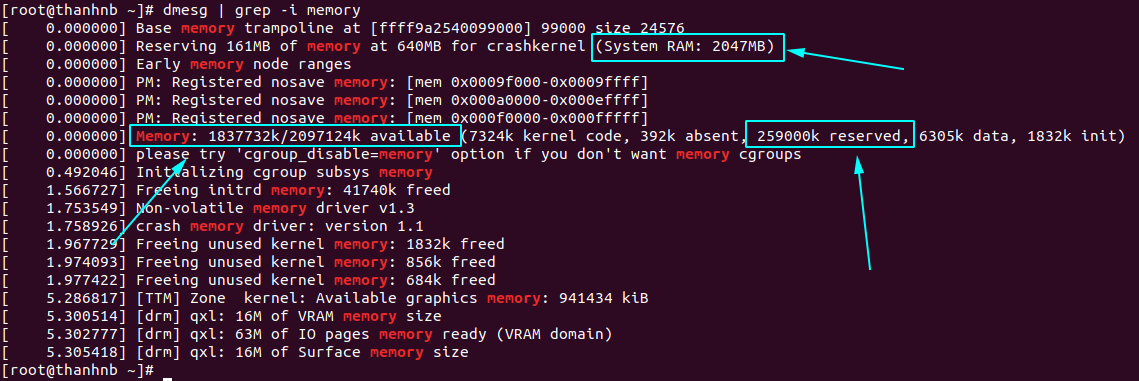
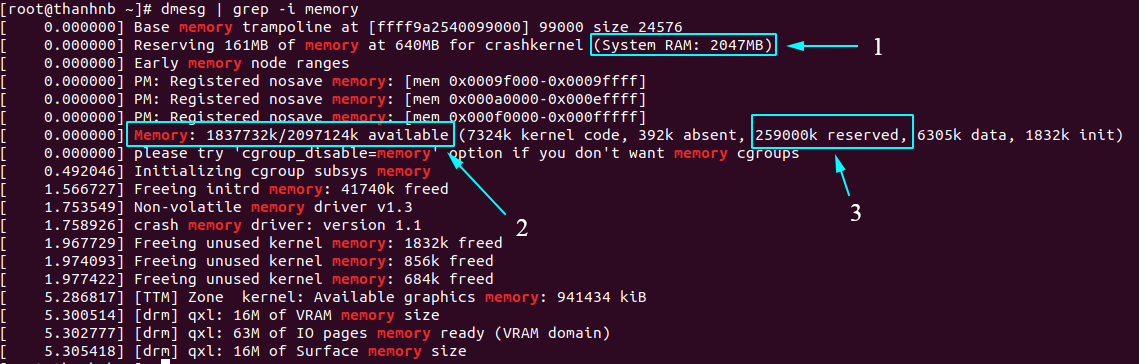
update hinh anh

Changed region(s): [[0.0, 0.0, 1.0, 1.0], [0.7375, 0.1209, 0.7989, 0.1813], [0.4302, 0.544, 0.4609, 0.5742]]

diff --git a/_posts/2019-03-03-kiem-tra-dung-luong-ram.md b/_posts/2019-03-03-kiem-tra-dung-luong-ram.md
@@ -35,13 +35,13 @@ Kết quả
 ![](/images/image-kiem-tra-dung-luong-ram/pic1.png)
 
 Kết quả cho thấy, Cloud VPS của mình có thông số bộ nhớ ram như sau:
-- Tổng dung lượng bộ nhớ bằng 1,8 GB (`total`)
-- Đã sử dụng 78 MB (`used`)
-- Dung lượng rảnh rỗi bằng 1,5 GB (`free`)
-- Dung lượng bộ nhớ sử dụng cho việc lưu đệm bằng 213 MB (`buff/cache`)
+- (1) Tổng dung lượng bộ nhớ bằng 1,8 GB (`total`)
+- (2) Đã sử dụng 80 MB (`used`)
+- (3) Dung lượng rảnh rỗi bằng 1,5 GB (`free`)
+- (4) Dung lượng bộ nhớ sử dụng cho việc lưu đệm bằng 228 MB (`buff/cache`)
 
 Lưu ý:
-- Số ram trống tuy chỉ bằng 1.5 GB (`free`) nhưng thực tế bạn có thể sử dụng nhiều hơn thế. Tổng số bộ nhớ có thể sử dụng sẽ bằng `free` + `buff/cache`. Vậy ở đây, số ram thực sự có thể sử dụng được sẽ bằng 1.713 GB.
+- Số ram trống tuy chỉ bằng 1.5 GB (`free`) nhưng thực tế bạn có thể sử dụng nhiều hơn thế. Tổng số bộ nhớ có thể sử dụng sẽ bằng `free` + `buff/cache`. Vậy ở đây, số ram thực sự có thể sử dụng được sẽ bằng 1.728 GB.
 - Lượng bộ nhớ ram được `buff/cache` thường được sử dụng để cải thiện hiệu năng đọc ghi ổ đĩa. Vì bộ ram sẽ có tốc độ truy vấn, đọc ghi cao hơn rất nhiều so với tốc độ truy vấn, đọc ghi ổ đĩa nên hệ điều hành sử dụng lượng ram còn trống để cài thiện hiệu năng.
 
 Vậy mình đã hướng dẫn các kiểm tra thông số bộ nhớ đơn giản. Tiếp theo mình sẽ hướng dẫn phương pháp nâng cao.
@@ -100,13 +100,13 @@ Kết quả
 
 ![](/images/image-kiem-tra-dung-luong-ram/pic8.png)
 
-## Giải thích lý do tại sao dung lượng bộ nhớ hiện có lại nhỏ hơn dung lượng bộ vật lý
+## Giải thích lý do tại sao dung lượng bộ nhớ hiện có lại nhỏ hơn dung lượng bộ nhớ vật lý
 
 ![](/images/image-kiem-tra-dung-luong-ram/pic9.png)
 
-Đến đây mình nghĩ một số bạn sẽ thắc mắc tại sao mình đăng ký gói Cloud VPS gói B với 2 GB RAM bộ nhớ nhưng khi kiểm tra thì hệ điều hành chỉ nhận 1.8 GB. Vậy có phải hệ điều hành đã nhận thiếu ram hoặc nhà cung cấp đã cung cấp thiếu bộ nhớ cho Cloud VPS?.
+Đến đây mình nghĩ một số bạn sẽ thắc mắc tại sao mình đăng ký gói Cloud VPS gói B với 2 GB RAM bộ nhớ nhưng khi kiểm tra thì hệ điều hành chỉ nhận 1.8 GB. Vậy có phải hệ điều hành đã nhận thiếu ram hoặc nhà cung cấp đã cung cấp thiếu bộ nhớ cho Cloud VPS?. 
 
-Thực ra, hệ điều hành Linux đã nhận đủ dung lượng bộ nhớ ram là 2 GB tuy nhiên trong quá trình khởi động hệ điều hành một phần ram đã bị chiếm dụng bởi nhân hệ thống (Kernel Linux).
+Sau đây mình sẽ giải thích lý do. Thực ra, hệ điều hành Linux đã nhận đủ dung lượng bộ nhớ ram là 2 GB tuy nhiên trong quá trình khởi động hệ điều hành một phần ram đã bị chiếm dụng bởi nhân hệ thống (Kernel Linux).
 
 Mình sẽ kiểm tra bằng câu lệnh
 ```
@@ -117,9 +117,13 @@ Kết quả
 
 ![](/images/image-kiem-tra-dung-luong-ram/pic10.png)
 
-Lưu ý vào kết quả, dung lượng bộ nhớ hệ điều hành Linux đã nhận được thực sự là 2047 MB (`System RAM: 2047MB`). 
+Nhìn vào (1) dễ thấy tổng dung lượng bộ nhớ hệ điều hành Linux đã nhận được thực sự là 2047 MB (`System RAM: 2047MB`). 
 
-Nhưng để ý dòng (`Memory: 1837732k/2097124k`), tổng dung lượng là 2 GB (`2097124kB`) nhưng lại chỉ sử dụng được 1,8 GB (`1837732k`). Để ý đến các giá trị tiếp theo, chúng ta sẽ lưu ý giá trị `259000k reserved`, giá thị thể hiện trong quá trình khởi động nhân hệ điều hành đã sử dụng 259 MB để thực hiện một số module đặc biệt. Nếu cộng giá trị `259000k` với dung lượng bộ nhớ có thể sử dụng `1837732k` chúng ta sẽ được giá trị gần bằng hoặc băng dung lượng bộ nhớ vật lý của Cloud VPS. Tuy nhiên, bạn không phải lo lắng vì dung lượng bộ nhớ sử dụng cho nhân hệ điều hành sẽ được giải phóng một phần, trả lại cho bộ nhớ ram. Vì vậy tuy dung lượng bộ nhớ là 1.8 GB nhưng bạn có thể sử dụng nhiều hơn thế.
+Tới (2), chúng ta thấy tuy tổng dung lượng là 2 GB (`2097124kB`) nhưng lại chỉ sử dụng được 1,8 GB (`1837732k`). 
+
+Để ý tới (3), chúng ta sẽ lưu ý giá trị `259000k reserved`, giá thị thể hiện trong quá trình khởi động nhân hệ điều hành đã sử dụng 259 MB để thực hiện một số module đặc biệt. 
+
+Nếu cộng giá trị `259000k` với dung lượng bộ nhớ có thể sử dụng `1837732k` chúng ta sẽ được giá trị gần bằng hoặc băng dung lượng bộ nhớ vật lý của Cloud VPS. Tuy nhiên, bạn không phải lo lắng vì dung lượng bộ nhớ sử dụng cho nhân hệ điều hành sẽ được giải phóng một phần, trả lại cho bộ nhớ ram. Vì vậy tuy dung lượng bộ nhớ là 1.8 GB nhưng bạn có thể sử dụng nhiều hơn thế.
 
 ## Nguồn
 
